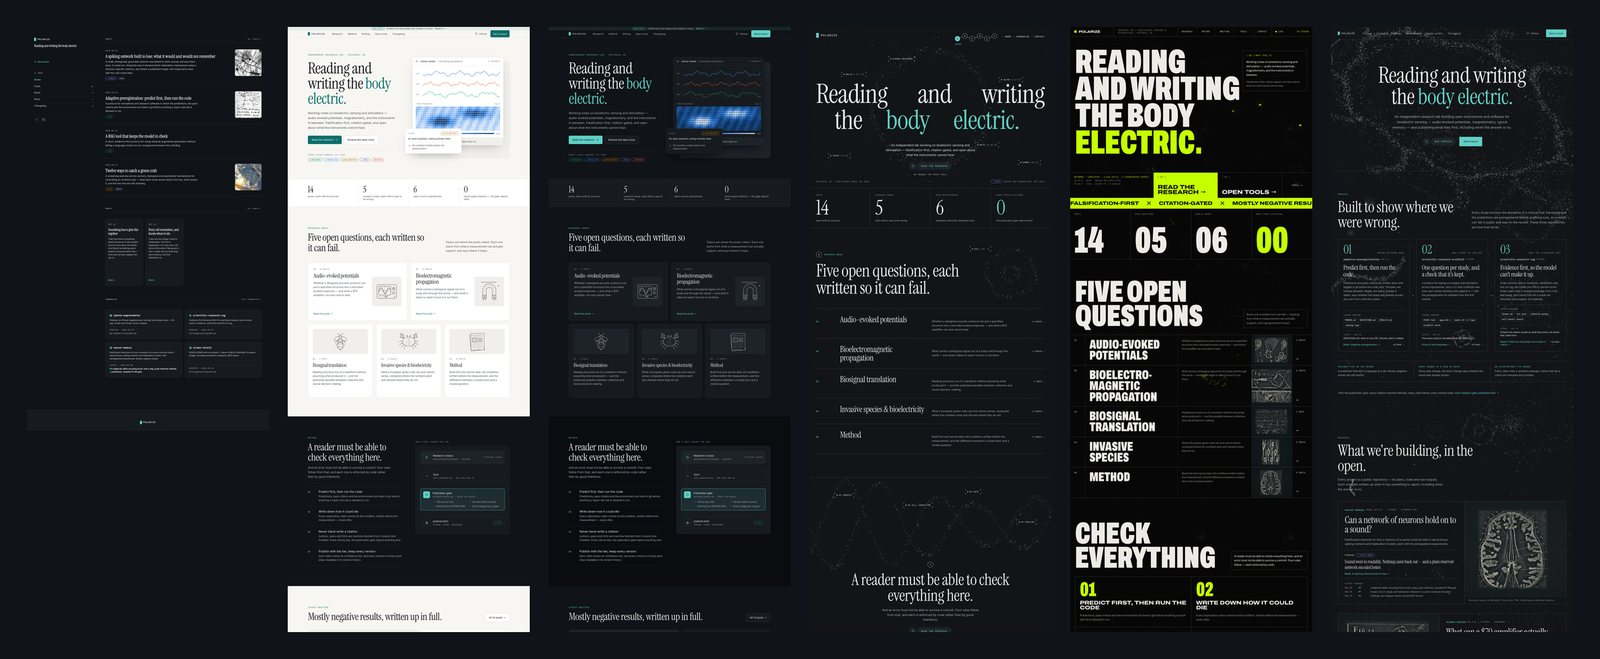
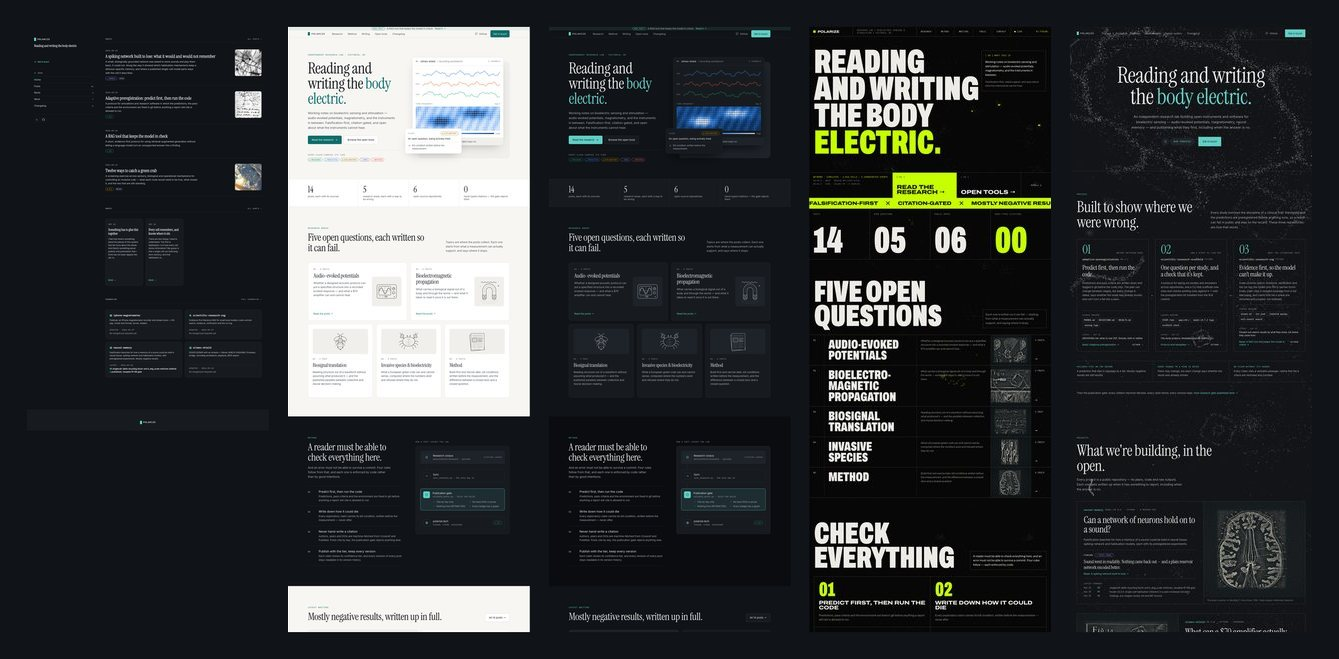
Redesign post: remove one version on request
The designer of the site one version drew on asked for it to come down.

- _posts/2026-09-28-redesigning-the-homepage.md: that version's section and
  its link removed; the later sections renumbered (3 No rules, 4 The one that
  shipped, 5 From canvas to components; the gallery is now 4.1–4.14); the
  counts and the shipped-version paragraph reworded so the post reads without
  it.
- assets: its screenshot deleted, and its column cut out of the filmstrip.
- scripts/sync_history.py: a post can withhold passages from its own version
  history with `history_redact:` in its front matter. A diff paragraph that
  mentions a listed string is left out and replaced by a one-line note that a
  passage was withheld. Meant for takedowns, not corrections, which stay
  visible.

diff --git a/scripts/sync_history.py b/scripts/sync_history.py
@@ -18,6 +18,12 @@ renames), newest first, with:
                          inside a changed paragraph the words marked <ins>/<del>.
                          The first revision has no diff — it IS the original.
 
+A post can withhold passages from its own history with `history_redact:` in its
+current front matter, a list of strings. Any diff paragraph containing one of them
+(case-insensitive) is left out of the history and replaced by a single note saying a
+passage was withheld. Use it only when text had to come off the site for a reason
+other than a correction (a takedown request, say): corrections stay visible.
+
 Keyed by the file's current path, which is what Jekyll exposes as page.path.
 The page renders it with _includes/history.html. Never edit the output by hand.
 
@@ -183,6 +189,42 @@ def diff(old_text, new_text):
     return [h for h in hunks if any(r['t'] != 'ctx' for r in h)], added, removed
 
 
+WITHHELD = '<em>A passage was withheld from this history.</em>'
+
+
+def redactions(path):
+    """The `history_redact:` strings in a file's current front matter, lower-cased."""
+    text = path.read_text()
+    m = re.match(r'---\n(.*?)\n---', text, re.S)
+    if not m:
+        return []
+    block = re.search(r'^history_redact:\s*\n((?:[ \t]+-[^\n]*\n?)+)', m.group(1) + '\n', re.M)
+    if not block:
+        return []
+    return [re.sub(r'^\s*-\s*', '', l).strip().strip('"\'').lower()
+            for l in block.group(1).splitlines() if l.strip()]
+
+
+def redact(hunks, terms):
+    """Drop every diff row that mentions a withheld term; keep a note where it was."""
+    if not terms:
+        return hunks
+    out = []
+    for hunk in hunks:
+        rows, hit = [], False
+        for row in hunk:
+            plain = html.unescape(re.sub(r'<[^>]+>', '', row['h'])).lower()
+            if any(t in plain for t in terms):
+                if not hit:
+                    rows.append({'t': 'ctx', 'h': WITHHELD})
+                hit = True
+                continue
+            rows.append(row)
+        if any(r['t'] != 'ctx' for r in rows):
+            out.append(rows)
+    return out
+
+
 def build():
     files = sorted(SITE.glob('_posts/*.md')) + sorted(SITE.glob('_essays/*.md'))
     data = {}
@@ -191,6 +233,7 @@ def build():
         revs = revisions(rel)
         if not revs:
             continue                                  # not committed yet
+        terms = redactions(f)
         out = []
         for i, r in enumerate(revs):
             prev = revs[i + 1] if i + 1 < len(revs) else None
@@ -202,7 +245,7 @@ def build():
                 new = git('show', f'{r["sha"]}:{r["path"]}')
                 old = git('show', f'{prev["sha"]}:{prev["path"]}')
                 hunks, added, removed = diff(old, new)
-                entry.update(first=False, hunks=hunks, added=added, removed=removed)
+                entry.update(first=False, hunks=redact(hunks, terms), added=added, removed=removed)
             out.append(entry)
         data[rel] = out
     return json.dumps(data, indent=1, ensure_ascii=False) + '\n'

diff --git a/_posts/2026-09-28-redesigning-the-homepage.md b/_posts/2026-09-28-redesigning-the-homepage.md
@@ -1,7 +1,7 @@
 ---
 title: "Redesigning the homepage, one version at a time"
 description: >-
-  Six versions of the polarize.tech homepage, from a post list in a sidebar to a
+  Five versions of the polarize.tech homepage, from a post list in a sidebar to a
   lab's front door drawn over a field of polarising cells: what each one tried,
   what was kept, and how the result became components in the design system.
 date: 2026-09-28 10:00:00 -0600
@@ -13,9 +13,12 @@ citations:
 schematic: none
 # About the site, not the research: kept out of the homepage's Findings.
 findings: false
+# Passages removed from this post on request are also withheld from its version history.
+history_redact:
+  - brutalis
 summary: >-
-  The homepage went through six versions in a day, each one kept. The first tried a
-  familiar product-site layout, the fourth threw out every rule, and the one that
+  The homepage went through five versions in a day, each one kept. The first tried a
+  familiar product-site layout, the third threw out every rule, and the one that
   shipped took pieces from all of them. What survived became polarize-ui's landing
   layer, so every page on the site now uses it.
 image: /assets/posts/homepage-redesign.jpg
@@ -36,11 +39,11 @@ was accurate, and it said nothing about what this lab is for.
 </figure>
 
 The redesign was done in the open, in conversation with Claude on a design canvas where every
-version stayed side by side. Then it was built with Claude Code. Six directions, oldest first, and then fourteen passes on the last one:
+version stayed side by side. Then it was built with Claude Code. Five directions, oldest first, and then fourteen passes on the last one:
 
 <figure class="shot shot--strip">
-  <div class="shot__scroll"><a href="{{ '/assets/posts/homepage-redesign/07-filmstrip.jpg' | relative_url }}"><img src="{{ '/assets/posts/homepage-redesign/07-filmstrip.jpg' | relative_url }}" alt="The top of every homepage version side by side: the old post list, the light version, the dark version, the brutalist version, the no-rules version and the final hybrid." loading="lazy" /></a></div>
-  <figcaption>The top of each version, oldest first: before, light, dark, brutalist, no rules, and the one that shipped. Scroll sideways on a phone.</figcaption>
+  <div class="shot__scroll"><a href="{{ '/assets/posts/homepage-redesign/07-filmstrip.jpg' | relative_url }}"><img src="{{ '/assets/posts/homepage-redesign/07-filmstrip.jpg' | relative_url }}" alt="The top of every homepage version side by side: the old post list, the light version, the dark version, the no-rules version and the final hybrid." loading="lazy" /></a></div>
+  <figcaption>The top of each version, oldest first: before, light, dark, no rules, and the one that shipped. Scroll sideways on a phone.</figcaption>
 </figure>
 
 ## 1. A familiar front door
@@ -78,22 +81,7 @@ Both of the first two versions had a phone layout too, drawn as separate artboar
   <figcaption>Versions one and two at phone width.</figcaption>
 </figure>
 
-## 3. Brutalism, and specks
-
-Next came a push towards brutalism, after the sound-therapy site [Byotōne](https://byotone.com):
-fields of animated specks, bracketed mono tags, a huge headline, and a lettered step-through
-navigation. The specks took several forms: a ring around the headline, a slowly turning cell, a
-helix, and an evoked-response wave. The page labelled them decoration, not data.
-
-One thing from the reference was deliberately not copied: its all-caps serif. Here uppercase is
-always the mono face, so the big headings stayed in regular case.
-
-<figure class="shot shot--wide">
-  <a href="{{ '/assets/posts/homepage-redesign/03-brutalist.jpg' | relative_url }}"><img src="{{ '/assets/posts/homepage-redesign/03-brutalist.jpg' | relative_url }}" alt="Version three: a dark page with a ring of specks around a spread-out serif headline, bracketed frequency-band tags and a lettered step navigation." loading="lazy" /></a>
-  <figcaption>Version three: specks, bracketed tags, and a stepper that did not survive.</figcaption>
-</figure>
-
-## 4. No rules
+## 3. No rules
 
 To see what the rules were costing, one version dropped all of them: a condensed grotesque, acid
 green, 1px grid lines everywhere, and a simulated network of about five thousand cells behind the
@@ -104,18 +92,17 @@ are firing, and the footer says it is a simulation.
 It was the loudest version and the least like the lab, but the cells stayed.
 
 <figure class="shot shot--wide">
-  <a href="{{ '/assets/posts/homepage-redesign/04-no-rules.jpg' | relative_url }}"><img src="{{ '/assets/posts/homepage-redesign/04-no-rules.jpg' | relative_url }}" alt="Version four: an enormous condensed uppercase headline in white and acid green, a grid of mono labels, and clusters of green squares firing in the background." loading="lazy" /></a>
-  <figcaption>Version four: no rules. The top bar counts how many simulated cells are firing.</figcaption>
+  <a href="{{ '/assets/posts/homepage-redesign/04-no-rules.jpg' | relative_url }}"><img src="{{ '/assets/posts/homepage-redesign/04-no-rules.jpg' | relative_url }}" alt="Version three: an enormous condensed uppercase headline in white and acid green, a grid of mono labels, and clusters of green squares firing in the background." loading="lazy" /></a>
+  <figcaption>Version three: no rules. The top bar counts how many simulated cells are firing.</figcaption>
 </figure>
 
-## 5. The one that shipped
+## 4. The one that shipped
 
-The final version took something from each of the others. It has the dark palette and the design
-system's type. From brutalism it took hard rules and square-ish corners, and from the first
-version it took the charts. The cells moved into a single WebGL field behind the entire page, one
+The final version took something from each of the others. It has the dark palette, the design
+system's type, hard rules and square-ish corners, and the first version's charts. The cells moved into a single WebGL field behind the entire page, one
 that looks like cells polarising rather than confetti. They are small, white, dim, sometimes
-grouped, occasionally firing together. The stepper and the bracketed tags went, and so did the
-background fills on cards.
+grouped, occasionally firing together. The bracketed tags went, and so did the background fills
+on cards.
 
 The content changed more than the look. Looking at how other labs present themselves helped,
 especially [Michael Levin's lab site](https://drmichaellevin.org) and his separate essay site,
@@ -125,7 +112,7 @@ with the process that keeps results honest. Then come the projects, the changelo
 the speculations and the design system.
 
 <figure class="shot shot--wide">
-  <a href="{{ '/assets/posts/homepage-redesign/05-hybrid.jpg' | relative_url }}"><img src="{{ '/assets/posts/homepage-redesign/05-hybrid.jpg' | relative_url }}" alt="Version five on the canvas: the centred serif headline over a field of faint white specks." loading="lazy" /></a>
+  <a href="{{ '/assets/posts/homepage-redesign/05-hybrid.jpg' | relative_url }}"><img src="{{ '/assets/posts/homepage-redesign/05-hybrid.jpg' | relative_url }}" alt="Version four on the canvas: the centred serif headline over a field of faint white specks." loading="lazy" /></a>
   <figcaption>The shipped design, as it stood on the canvas.</figcaption>
 </figure>
 
@@ -136,72 +123,72 @@ of them, in order, each shown where it changed the page.
 
 <div class="shot-grid">
   <figure class="shot">
-    <a href="{{ '/assets/posts/homepage-redesign/hybrid/h01-hero.jpg' | relative_url }}"><img src="{{ '/assets/posts/homepage-redesign/hybrid/h01-hero.jpg' | relative_url }}" alt="Step 5.1 of the hybrid homepage: The first hybrid: brutalism's dark palette and specks, the first version's charts, and no stepper." loading="lazy" /></a>
-    <figcaption><strong>5.1</strong> · The first hybrid: brutalism's dark palette and specks, the first version's charts, and no stepper.</figcaption>
+    <a href="{{ '/assets/posts/homepage-redesign/hybrid/h01-hero.jpg' | relative_url }}"><img src="{{ '/assets/posts/homepage-redesign/hybrid/h01-hero.jpg' | relative_url }}" alt="Step 4.1 of the hybrid homepage: The first hybrid: the dark palette and specks, with the first version's charts." loading="lazy" /></a>
+    <figcaption><strong>4.1</strong> · The first hybrid: the dark palette and specks, with the first version's charts.</figcaption>
   </figure>
   <figure class="shot">
-    <a href="{{ '/assets/posts/homepage-redesign/hybrid/h02-focus.jpg' | relative_url }}"><img src="{{ '/assets/posts/homepage-redesign/hybrid/h02-focus.jpg' | relative_url }}" alt="Step 5.2 of the hybrid homepage: Corners down to 4px." loading="lazy" /></a>
-    <figcaption><strong>5.2</strong> · Corners down to 4px.</figcaption>
+    <a href="{{ '/assets/posts/homepage-redesign/hybrid/h02-focus.jpg' | relative_url }}"><img src="{{ '/assets/posts/homepage-redesign/hybrid/h02-focus.jpg' | relative_url }}" alt="Step 4.2 of the hybrid homepage: Corners down to 4px." loading="lazy" /></a>
+    <figcaption><strong>4.2</strong> · Corners down to 4px.</figcaption>
   </figure>
   <figure class="shot">
-    <a href="{{ '/assets/posts/homepage-redesign/hybrid/h03-focus.jpg' | relative_url }}"><img src="{{ '/assets/posts/homepage-redesign/hybrid/h03-focus.jpg' | relative_url }}" alt="Step 5.3 of the hybrid homepage: The specimen drawings replaced by the archival plates the site already had." loading="lazy" /></a>
-    <figcaption><strong>5.3</strong> · The specimen drawings replaced by the archival plates the site already had.</figcaption>
+    <a href="{{ '/assets/posts/homepage-redesign/hybrid/h03-focus.jpg' | relative_url }}"><img src="{{ '/assets/posts/homepage-redesign/hybrid/h03-focus.jpg' | relative_url }}" alt="Step 4.3 of the hybrid homepage: The specimen drawings replaced by the archival plates the site already had." loading="lazy" /></a>
+    <figcaption><strong>4.3</strong> · The specimen drawings replaced by the archival plates the site already had.</figcaption>
   </figure>
   <figure class="shot">
-    <a href="{{ '/assets/posts/homepage-redesign/hybrid/h04-focus.jpg' | relative_url }}"><img src="{{ '/assets/posts/homepage-redesign/hybrid/h04-focus.jpg' | relative_url }}" alt="Step 5.4 of the hybrid homepage: Background fills taken off the cards." loading="lazy" /></a>
-    <figcaption><strong>5.4</strong> · Background fills taken off the cards.</figcaption>
+    <a href="{{ '/assets/posts/homepage-redesign/hybrid/h04-focus.jpg' | relative_url }}"><img src="{{ '/assets/posts/homepage-redesign/hybrid/h04-focus.jpg' | relative_url }}" alt="Step 4.4 of the hybrid homepage: Background fills taken off the cards." loading="lazy" /></a>
+    <figcaption><strong>4.4</strong> · Background fills taken off the cards.</figcaption>
   </figure>
   <figure class="shot">
-    <a href="{{ '/assets/posts/homepage-redesign/hybrid/h05-focus.jpg' | relative_url }}"><img src="{{ '/assets/posts/homepage-redesign/hybrid/h05-focus.jpg' | relative_url }}" alt="Step 5.5 of the hybrid homepage: Rebuilt around the repositories: projects first, then the changelog, findings and notes." loading="lazy" /></a>
-    <figcaption><strong>5.5</strong> · Rebuilt around the repositories: projects first, then the changelog, findings and notes.</figcaption>
+    <a href="{{ '/assets/posts/homepage-redesign/hybrid/h05-focus.jpg' | relative_url }}"><img src="{{ '/assets/posts/homepage-redesign/hybrid/h05-focus.jpg' | relative_url }}" alt="Step 4.5 of the hybrid homepage: Rebuilt around the repositories: projects first, then the changelog, findings and notes." loading="lazy" /></a>
+    <figcaption><strong>4.5</strong> · Rebuilt around the repositories: projects first, then the changelog, findings and notes.</figcaption>
   </figure>
   <figure class="shot">
-    <a href="{{ '/assets/posts/homepage-redesign/hybrid/h06-focus.jpg' | relative_url }}"><img src="{{ '/assets/posts/homepage-redesign/hybrid/h06-focus.jpg' | relative_url }}" alt="Step 5.6 of the hybrid homepage: “Merged this week” became “Recently merged”." loading="lazy" /></a>
-    <figcaption><strong>5.6</strong> · “Merged this week” became “Recently merged”.</figcaption>
+    <a href="{{ '/assets/posts/homepage-redesign/hybrid/h06-focus.jpg' | relative_url }}"><img src="{{ '/assets/posts/homepage-redesign/hybrid/h06-focus.jpg' | relative_url }}" alt="Step 4.6 of the hybrid homepage: “Merged this week” became “Recently merged”." loading="lazy" /></a>
+    <figcaption><strong>4.6</strong> · “Merged this week” became “Recently merged”.</figcaption>
   </figure>
   <figure class="shot">
-    <a href="{{ '/assets/posts/homepage-redesign/hybrid/h07-focus.jpg' | relative_url }}"><img src="{{ '/assets/posts/homepage-redesign/hybrid/h07-focus.jpg' | relative_url }}" alt="Step 5.7 of the hybrid homepage: One WebGL field behind the whole page. At first the cells looked like bubbles." loading="lazy" /></a>
-    <figcaption><strong>5.7</strong> · One WebGL field behind the whole page. At first the cells looked like bubbles.</figcaption>
+    <a href="{{ '/assets/posts/homepage-redesign/hybrid/h07-focus.jpg' | relative_url }}"><img src="{{ '/assets/posts/homepage-redesign/hybrid/h07-focus.jpg' | relative_url }}" alt="Step 4.7 of the hybrid homepage: One WebGL field behind the whole page. At first the cells looked like bubbles." loading="lazy" /></a>
+    <figcaption><strong>4.7</strong> · One WebGL field behind the whole page. At first the cells looked like bubbles.</figcaption>
   </figure>
   <figure class="shot">
-    <a href="{{ '/assets/posts/homepage-redesign/hybrid/h08-focus.jpg' | relative_url }}"><img src="{{ '/assets/posts/homepage-redesign/hybrid/h08-focus.jpg' | relative_url }}" alt="Step 5.8 of the hybrid homepage: Back to specks: smaller, clustered, of varying density." loading="lazy" /></a>
-    <figcaption><strong>5.8</strong> · Back to specks: smaller, clustered, of varying density.</figcaption>
+    <a href="{{ '/assets/posts/homepage-redesign/hybrid/h08-focus.jpg' | relative_url }}"><img src="{{ '/assets/posts/homepage-redesign/hybrid/h08-focus.jpg' | relative_url }}" alt="Step 4.8 of the hybrid homepage: Back to specks: smaller, clustered, of varying density." loading="lazy" /></a>
+    <figcaption><strong>4.8</strong> · Back to specks: smaller, clustered, of varying density.</figcaption>
   </figure>
   <figure class="shot">
-    <a href="{{ '/assets/posts/homepage-redesign/hybrid/h09-focus.jpg' | relative_url }}"><img src="{{ '/assets/posts/homepage-redesign/hybrid/h09-focus.jpg' | relative_url }}" alt="Step 5.9 of the hybrid homepage: One colour: a faded white that polarises in opacity only." loading="lazy" /></a>
-    <figcaption><strong>5.9</strong> · One colour: a faded white that polarises in opacity only.</figcaption>
+    <a href="{{ '/assets/posts/homepage-redesign/hybrid/h09-focus.jpg' | relative_url }}"><img src="{{ '/assets/posts/homepage-redesign/hybrid/h09-focus.jpg' | relative_url }}" alt="Step 4.9 of the hybrid homepage: One colour: a faded white that polarises in opacity only." loading="lazy" /></a>
+    <figcaption><strong>4.9</strong> · One colour: a faded white that polarises in opacity only.</figcaption>
   </figure>
   <figure class="shot">
-    <a href="{{ '/assets/posts/homepage-redesign/hybrid/h10-focus.jpg' | relative_url }}"><img src="{{ '/assets/posts/homepage-redesign/hybrid/h10-focus.jpg' | relative_url }}" alt="Step 5.10 of the hybrid homepage: Quieter still: lower peaks, softer firing." loading="lazy" /></a>
-    <figcaption><strong>5.10</strong> · Quieter still: lower peaks, softer firing.</figcaption>
+    <a href="{{ '/assets/posts/homepage-redesign/hybrid/h10-focus.jpg' | relative_url }}"><img src="{{ '/assets/posts/homepage-redesign/hybrid/h10-focus.jpg' | relative_url }}" alt="Step 4.10 of the hybrid homepage: Quieter still: lower peaks, softer firing." loading="lazy" /></a>
+    <figcaption><strong>4.10</strong> · Quieter still: lower peaks, softer firing.</figcaption>
   </figure>
   <figure class="shot">
-    <a href="{{ '/assets/posts/homepage-redesign/hybrid/h11-hero.jpg' | relative_url }}"><img src="{{ '/assets/posts/homepage-redesign/hybrid/h11-hero.jpg' | relative_url }}" alt="Step 5.11 of the hybrid homepage: The bracketed corner tags removed." loading="lazy" /></a>
-    <figcaption><strong>5.11</strong> · The bracketed corner tags removed.</figcaption>
+    <a href="{{ '/assets/posts/homepage-redesign/hybrid/h11-hero.jpg' | relative_url }}"><img src="{{ '/assets/posts/homepage-redesign/hybrid/h11-hero.jpg' | relative_url }}" alt="Step 4.11 of the hybrid homepage: The bracketed corner tags removed." loading="lazy" /></a>
+    <figcaption><strong>4.11</strong> · The bracketed corner tags removed.</figcaption>
   </figure>
   <figure class="shot">
-    <a href="{{ '/assets/posts/homepage-redesign/hybrid/h12-focus.jpg' | relative_url }}"><img src="{{ '/assets/posts/homepage-redesign/hybrid/h12-focus.jpg' | relative_url }}" alt="Step 5.12 of the hybrid homepage: A Process section: three repositories that keep results honest." loading="lazy" /></a>
-    <figcaption><strong>5.12</strong> · A Process section: three repositories that keep results honest.</figcaption>
+    <a href="{{ '/assets/posts/homepage-redesign/hybrid/h12-focus.jpg' | relative_url }}"><img src="{{ '/assets/posts/homepage-redesign/hybrid/h12-focus.jpg' | relative_url }}" alt="Step 4.12 of the hybrid homepage: A Process section: three repositories that keep results honest." loading="lazy" /></a>
+    <figcaption><strong>4.12</strong> · A Process section: three repositories that keep results honest.</figcaption>
   </figure>
   <figure class="shot">
-    <a href="{{ '/assets/posts/homepage-redesign/hybrid/h13-hero.jpg' | relative_url }}"><img src="{{ '/assets/posts/homepage-redesign/hybrid/h13-hero.jpg' | relative_url }}" alt="Step 5.13 of the hybrid homepage: A simpler, centred hero; the numbers strip gone." loading="lazy" /></a>
-    <figcaption><strong>5.13</strong> · A simpler, centred hero; the numbers strip gone.</figcaption>
+    <a href="{{ '/assets/posts/homepage-redesign/hybrid/h13-hero.jpg' | relative_url }}"><img src="{{ '/assets/posts/homepage-redesign/hybrid/h13-hero.jpg' | relative_url }}" alt="Step 4.13 of the hybrid homepage: A simpler, centred hero; the numbers strip gone." loading="lazy" /></a>
+    <figcaption><strong>4.13</strong> · A simpler, centred hero; the numbers strip gone.</figcaption>
   </figure>
   <figure class="shot">
-    <a href="{{ '/assets/posts/homepage-redesign/hybrid/h13-focus.jpg' | relative_url }}"><img src="{{ '/assets/posts/homepage-redesign/hybrid/h13-focus.jpg' | relative_url }}" alt="Step 5.13 of the hybrid homepage: The charts moved into a section for polarize-ui." loading="lazy" /></a>
-    <figcaption><strong>5.13</strong> · The charts moved into a section for polarize-ui.</figcaption>
+    <a href="{{ '/assets/posts/homepage-redesign/hybrid/h13-focus.jpg' | relative_url }}"><img src="{{ '/assets/posts/homepage-redesign/hybrid/h13-focus.jpg' | relative_url }}" alt="Step 4.13 of the hybrid homepage: The charts moved into a section for polarize-ui." loading="lazy" /></a>
+    <figcaption><strong>4.13</strong> · The charts moved into a section for polarize-ui.</figcaption>
   </figure>
   <figure class="shot">
-    <a href="{{ '/assets/posts/homepage-redesign/hybrid/h14-hero.jpg' | relative_url }}"><img src="{{ '/assets/posts/homepage-redesign/hybrid/h14-hero.jpg' | relative_url }}" alt="Step 5.14 of the hybrid homepage: A dedicated cell turning behind the heading, with buttons for the process and for getting in touch." loading="lazy" /></a>
-    <figcaption><strong>5.14</strong> · A dedicated cell turning behind the heading, with buttons for the process and for getting in touch.</figcaption>
+    <a href="{{ '/assets/posts/homepage-redesign/hybrid/h14-hero.jpg' | relative_url }}"><img src="{{ '/assets/posts/homepage-redesign/hybrid/h14-hero.jpg' | relative_url }}" alt="Step 4.14 of the hybrid homepage: A dedicated cell turning behind the heading, with buttons for the process and for getting in touch." loading="lazy" /></a>
+    <figcaption><strong>4.14</strong> · A dedicated cell turning behind the heading, with buttons for the process and for getting in touch.</figcaption>
   </figure>
   <figure class="shot">
-    <a href="{{ '/assets/posts/homepage-redesign/hybrid/h14-focus.jpg' | relative_url }}"><img src="{{ '/assets/posts/homepage-redesign/hybrid/h14-focus.jpg' | relative_url }}" alt="Step 5.14 of the hybrid homepage: Speculations as story cards, told like posts." loading="lazy" /></a>
-    <figcaption><strong>5.14</strong> · Speculations as story cards, told like posts.</figcaption>
+    <a href="{{ '/assets/posts/homepage-redesign/hybrid/h14-focus.jpg' | relative_url }}"><img src="{{ '/assets/posts/homepage-redesign/hybrid/h14-focus.jpg' | relative_url }}" alt="Step 4.14 of the hybrid homepage: Speculations as story cards, told like posts." loading="lazy" /></a>
+    <figcaption><strong>4.14</strong> · Speculations as story cards, told like posts.</figcaption>
   </figure>
 </div>
 
-## 6. From canvas to components
+## 5. From canvas to components
 
 A design that lives only on a canvas has to be rebuilt by hand for every page, and it drifts. So
 it went into polarize-ui as components, in both of its forms: a zero-build stylesheet and custom
